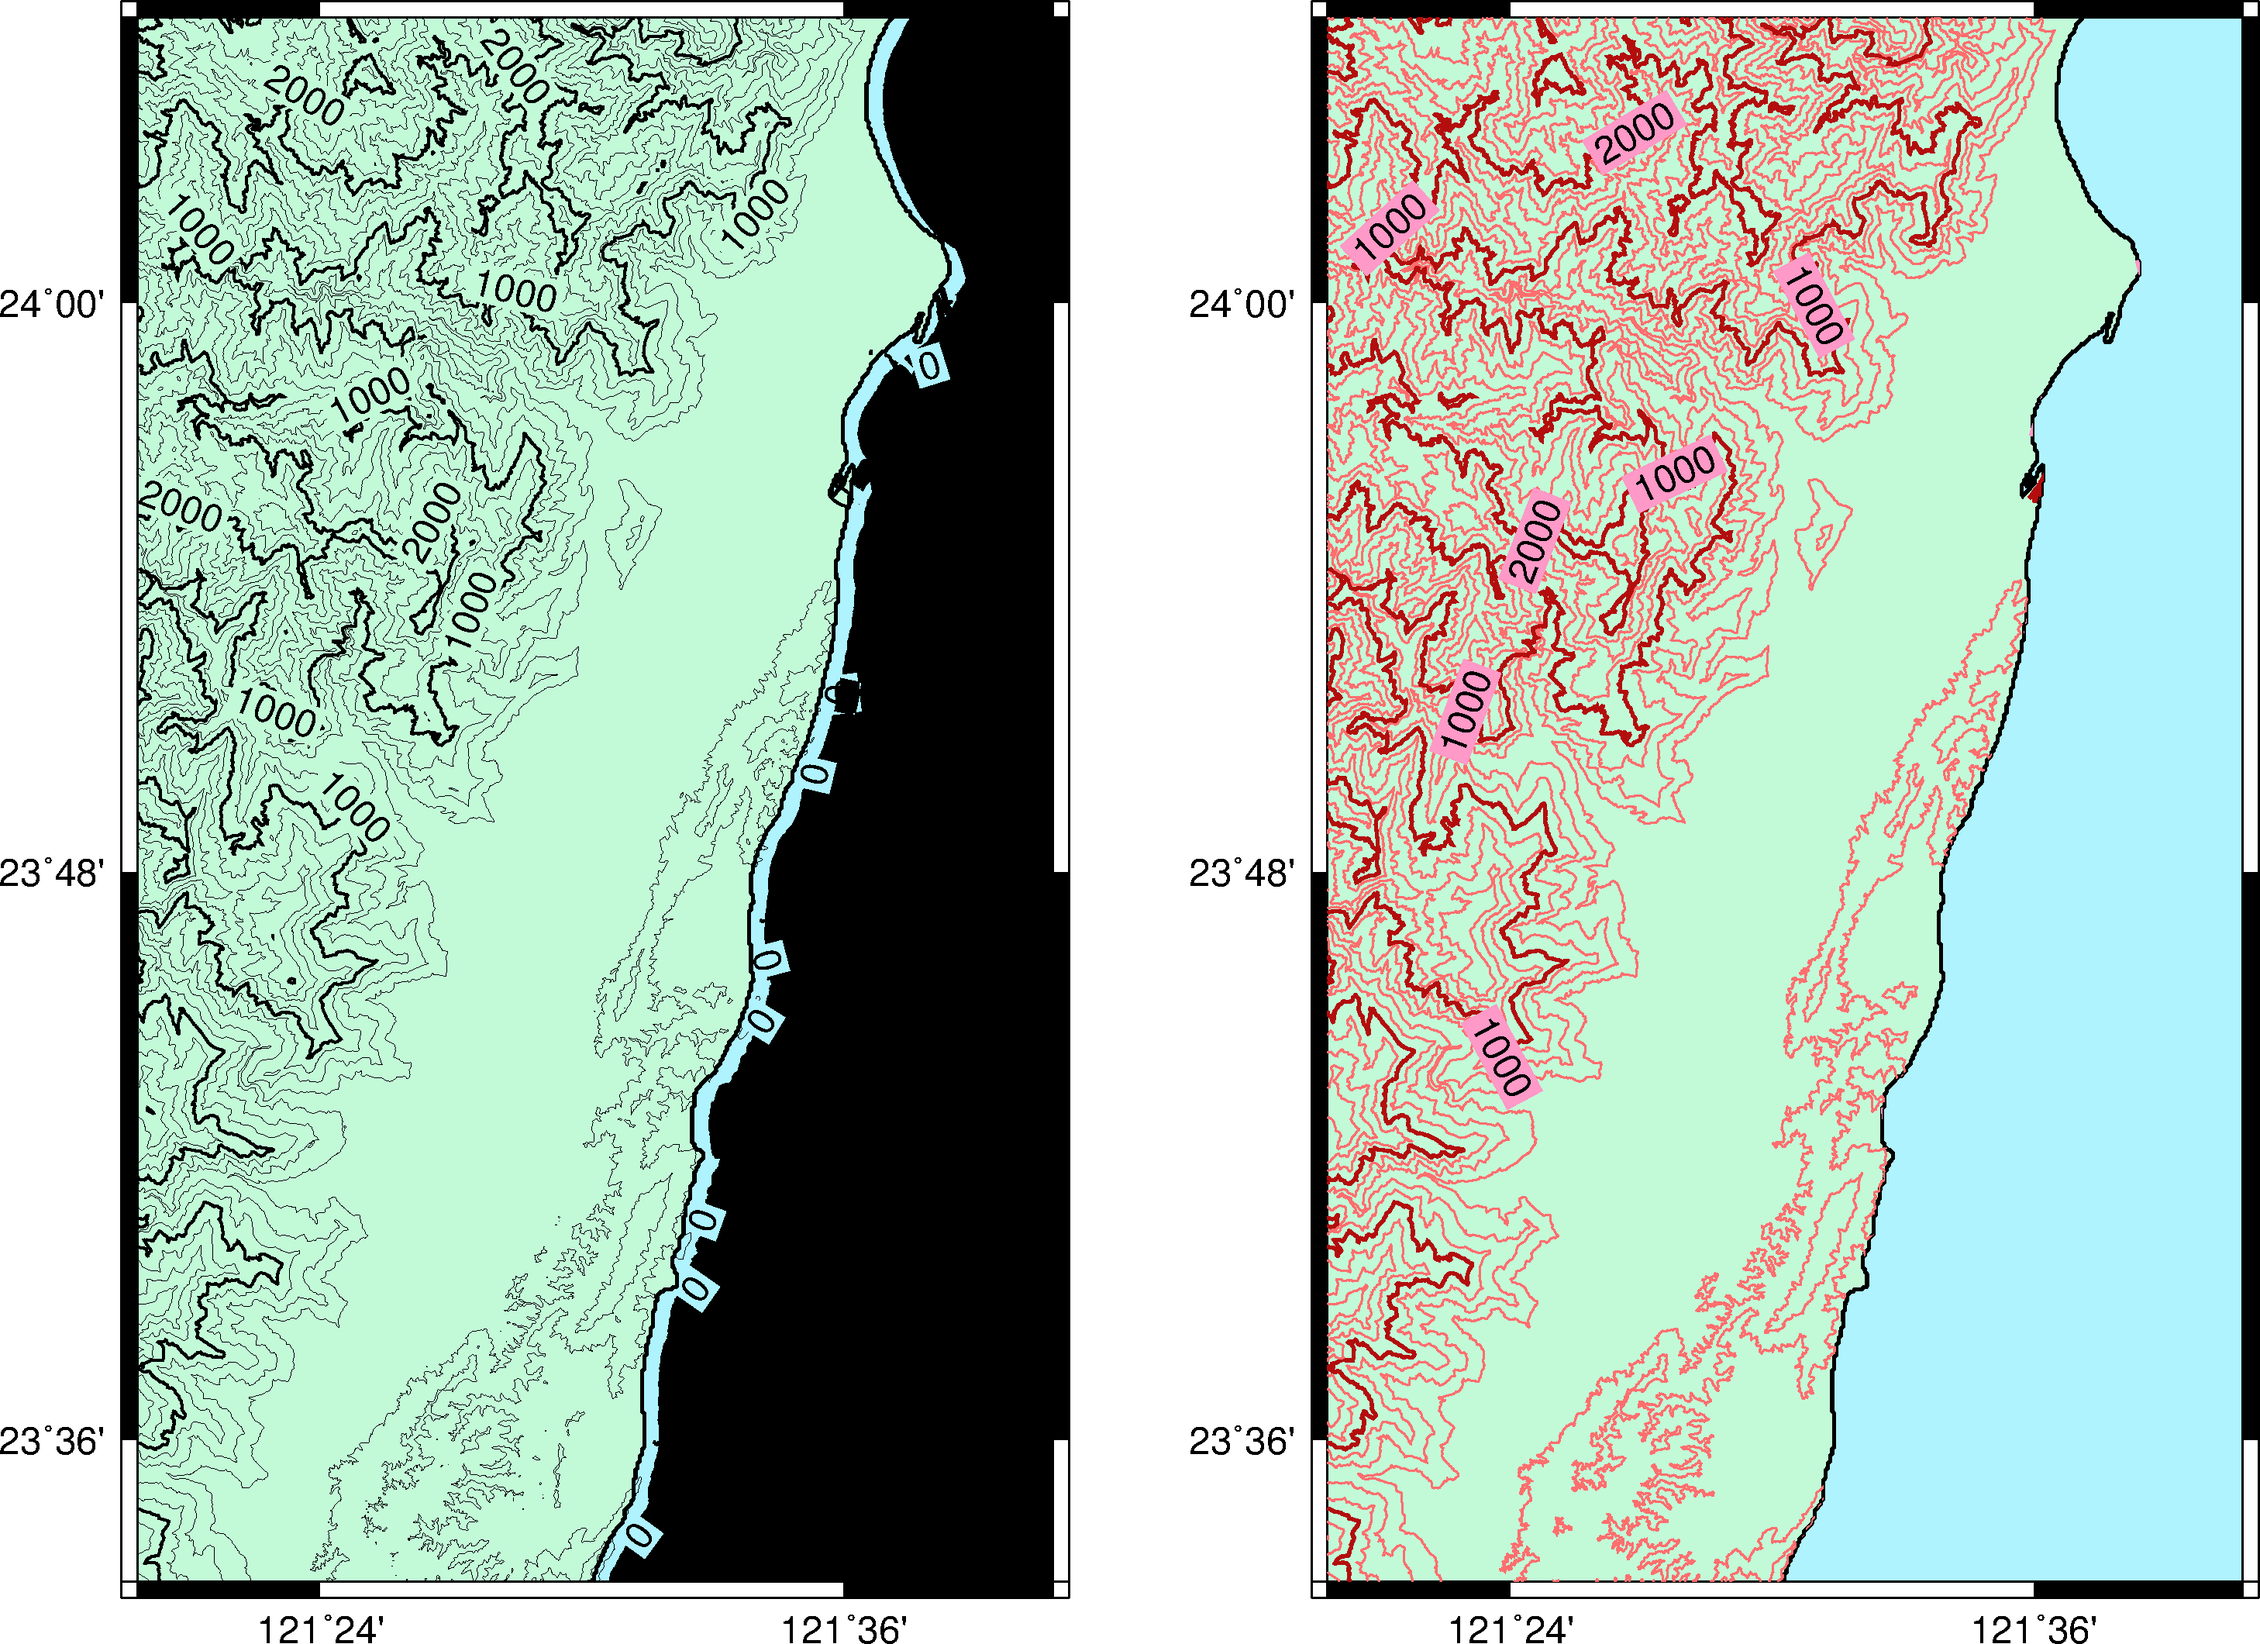
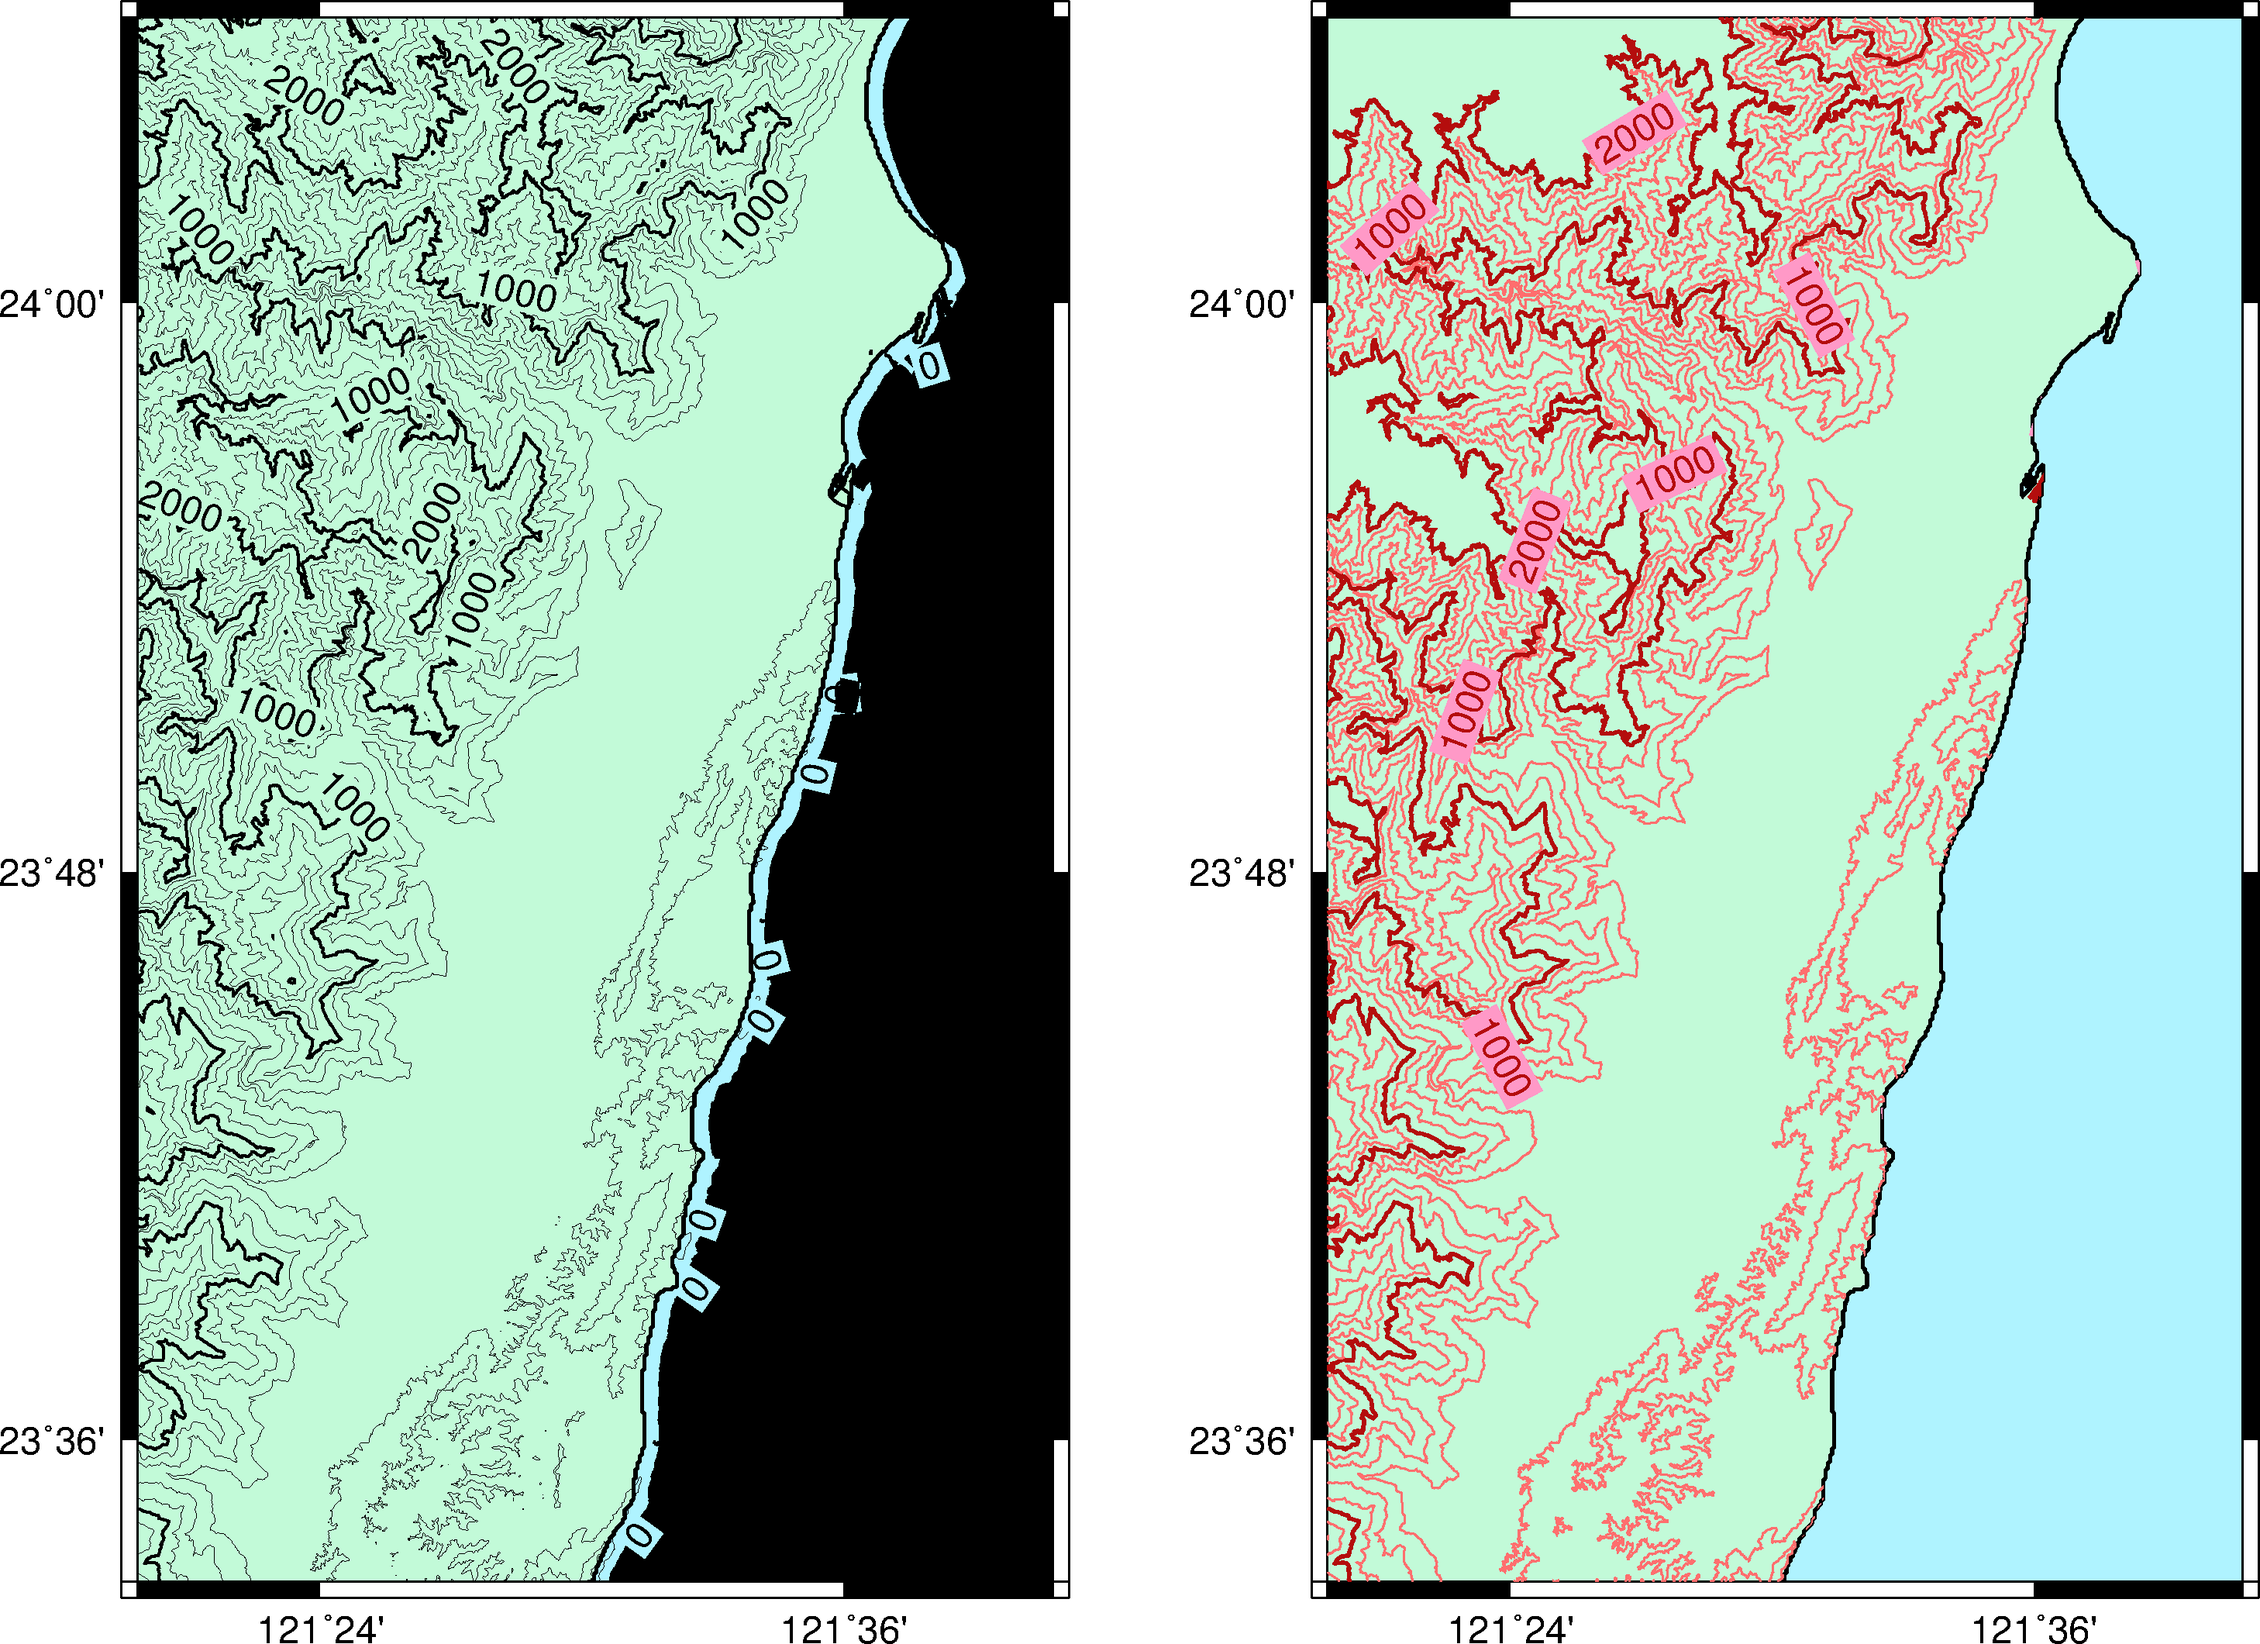
add grdcontour -L

diff --git a/docs/contour_profile.md b/docs/contour_profile.md
@@ -173,7 +173,7 @@ gmt pscoast -R121.33/121.68/23.55/24.1 -JM10 -BWeSn -Bxa.2 -Bya.2 ^
 -Df -W1 -G194/250/216 -S175/243/255 -X13 -K -O >> %ps%
 gmt pscoast -R -JM -Df -Gc -K -O >> %ps%
 gmt grdcontour east_rift_valley.grd -R -JM -C250 -A1000+an+f12p+g255/153/199 ^
--Gd15c -Wc.5,255/110/110 -Wa1,180/13/13 -Q180 -K -O >> %ps%
+-Gd15c -Wc.5,255/110/110 -Wa1,180/13/13 -Q180 -L0/2000 -K -O >> %ps%
 gmt pscoast -R -JM -Q -K -O >> %ps%
 
 gmt psxy -R -JM -T -O >> %ps%
@@ -196,6 +196,7 @@ gmt psconvert %ps% -Tg -A -P
     * **f**給一個檔案ffile.d，依照檔案中的位置，繪製註解
     * 依照線段來取決，**l**起始/結束，用,來區分每條線，**L**使用大圓路徑
     * **n**給一條線中等距標籤的數量
+  * **-L**低值/高值，限制範圍。
   * **-W**等高線的屬性，**-Wa**設定有註解的等高線；**-Wc**設定無註解的等高線。
   * **-Q**省略資料點小於多少的等高線。
 * 第11行: `pscoast -Gc`開啟海岸線切割模式。
